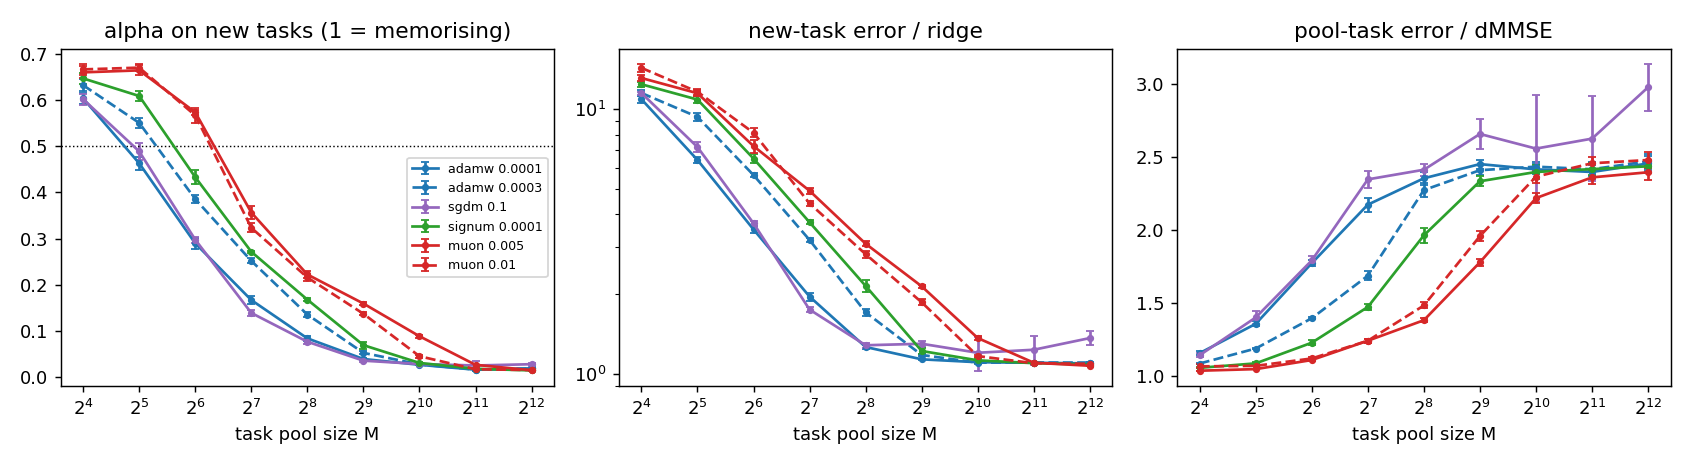
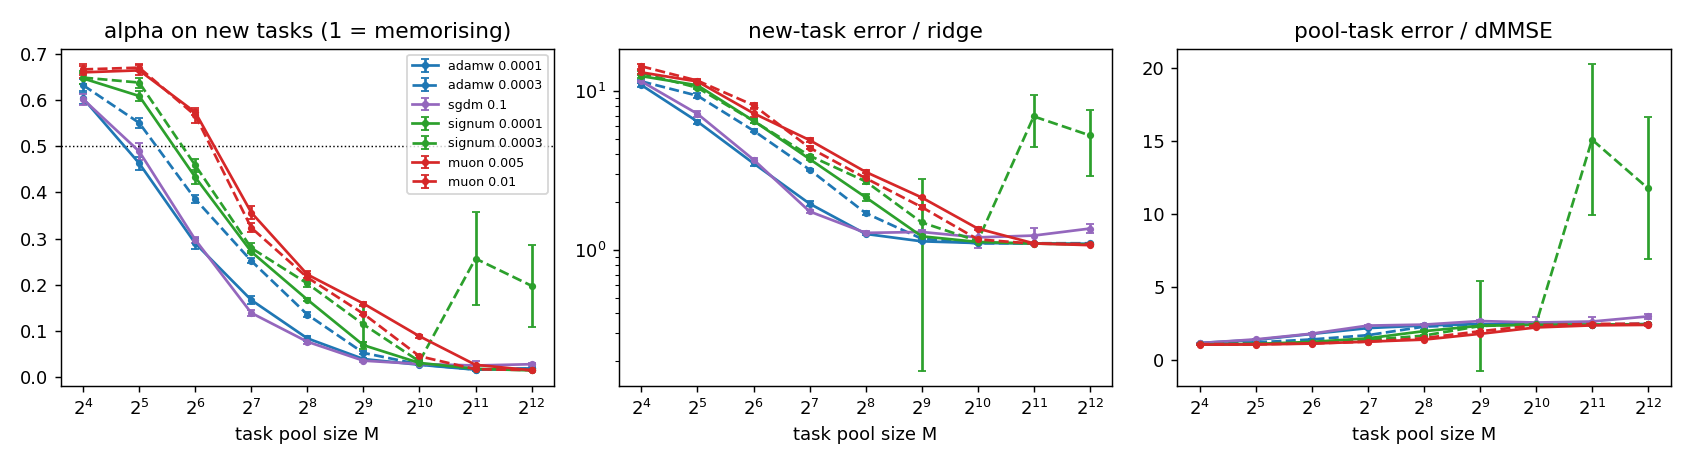
Run 4b: Signum threshold barely moves with LR; Muon stays 0.5-0.7 doublings above

diff --git a/LOG.md b/LOG.md
@@ -20,14 +20,14 @@ How to read the numbers:
 
 | | |
 |---|---|
-| Stage | Run 4b (Signum at a second learning rate, 60 runs) started 2026-11-03 20:10 PT, done around 22:00 PT. Run 3 (10x longer training) should finish tomorrow between about 04:00 and 12:00 PT. |
+| Stage | Runs 4 and 4b are done. Run 3 (10x longer training, 40 runs) should finish tomorrow between about 04:00 and 12:00 PT. |
 | Main finding | **Muon memorises the task pool more and sooner, so it needs 2-3x more distinct tasks than AdamW before in-context learning wins** (6 of 6 seeds, every learning-rate pairing, p = 0.031, the smallest possible with 6 seeds). It also starts ICL 1.3-2.5x sooner. With 2,048 or more tasks the two end up the same. |
-| Why | **Both halves of Muon's update add memorisation** (Run 4). Signum, which equalises step sizes but doesn't orthogonalise, lands between AdamW and Muon. SGD lands on AdamW. The orthogonalisation step alone moves the threshold about 0.7 doublings, at every learning rate tried. |
+| Why | **Both halves of Muon's update add memorisation** (Runs 4 and 4b). Signum, which equalises step sizes but doesn't orthogonalise, lands between AdamW and Muon at both learning rates tried; SGD lands on AdamW. Orthogonalisation adds 0.5-0.7 doublings on top of Signum (6 of 6 seeds in every pairing). Like Muon's, and unlike AdamW's, Signum's threshold barely moves with learning rate. |
 | Open question | Is Muon just AdamW on a faster clock? Early evidence says no; Run 3 tests it directly. |
 
 ---
 
-## Run 4b: Signum at a second learning rate (started 2026-11-03 20:10 PT)
+## Run 4b: Signum at a second learning rate (2026-11-03, 20:10-22:05 PT)
 
 **What:** 60 runs: Signum at 3e-4, every pool size, seeds 0-5, paired with everything above.
 
@@ -39,7 +39,36 @@ more of it.
 **What the results will look like:** one more row in the Run 4 threshold table and paired
 tests against AdamW 3e-4 and Muon.
 
-**Result:** pending.
+**Result:** Signum's threshold hardly moves with learning rate, and Muon stays clearly above it.
+All 60 runs finished.
+
+| Optimizer | Threshold at the lower / higher learning rate |
+|---|---|
+| AdamW (1e-4 / 3e-4) | 28 / 41 tasks |
+| Signum (1e-4 / 3e-4) | 50 / 54 tasks |
+| Muon (0.005 / 0.01) | 80 / 77 tasks |
+
+Paired tests with Signum at 3e-4 (6 of 6 seeds agree and p = 0.031 in every row):
+
+| Comparison | Threshold moves by |
+|---|---|
+| Signum 3e-4 vs AdamW 3e-4 | +0.41 doublings |
+| Muon 0.005 vs Signum 3e-4 | +0.58 doublings |
+| Muon 0.01 vs Signum 3e-4 | +0.52 doublings |
+
+What this says:
+- **Orthogonalisation raises the threshold on its own, whichever learning rate Signum uses.**
+  Across all four Signum/Muon pairings, Muon is 0.5-0.7 doublings (1.4-1.6x more tasks) above
+  Signum.
+- **Equal step sizes also raise it**, by 0.4 doublings at a matched learning rate (3e-4 for both).
+- **AdamW is the odd one out.** For both optimizers that give equal-size steps (Signum and Muon),
+  the learning rate barely changes the threshold. For AdamW it changes it by 0.56 doublings.
+- **Caveat:** 3e-4 is the most Signum can take. With 2,048 or more tasks, and in one of six seeds
+  at 512, it trained and then blew up. Its threshold (near 54 tasks) comes from smaller pools,
+  where it trained normally. So Signum can't be pushed to a higher learning rate to close the
+  gap with Muon.
+
+Figure (now with Signum 3e-4 as the dashed green line): `reports/figs/run04/vs_pool_size_all.png`.
 
 ---
 
@@ -88,8 +117,8 @@ What this says:
   equalises them across the matrix's directions instead of its entries, and that alone raises the
   threshold by about 0.7 doublings (1.6x more tasks) at both Muon learning rates.
 - **Equal step sizes add some memorisation too, but how much depends on AdamW's learning
-  rate**: 0.84 doublings against AdamW 1e-4, only 0.29 against 3e-4. Run 4b runs Signum at
-  3e-4 to see whether Signum's threshold also moves with its learning rate.
+  rate**: 0.84 doublings against AdamW 1e-4, only 0.29 against 3e-4. Run 4b settles this:
+  at a matched learning rate (3e-4) the gap is 0.41 doublings.
 - **How Adam scales steps doesn't matter here.** Plain SGD with momentum behaves like AdamW
   1e-4 wherever it trains well. (SGD is weaker with 1,024 or more tasks, 1.2-1.4x ridge
   against AdamW's 1.1x, and one SGD seed trained badly with an infinite pool. Neither affects

diff --git a/reports/run04_compare.md b/reports/run04_compare.md
@@ -4,20 +4,21 @@
 | adamw 0.0003 | 41 | 5.43 5.25 5.35 5.56 5.25 5.25 |
 | sgdm 0.1 | 30 | 5.24 4.63 5.11 5.06 4.72 4.60 |
 | signum 0.0001 | 50 | 5.59 5.40 5.67 5.95 5.55 5.63 |
+| signum 0.0003 | 54 | 5.64 5.55 5.76 6.04 5.74 5.78 |
 | muon 0.005 | 80 | 6.30 6.26 6.33 6.39 6.39 6.30 |
 | muon 0.01 | 77 | 6.26 6.21 6.27 6.44 6.06 6.39 |
 
 Error on new tasks vs ridge / error on pool tasks vs dMMSE (seed mean; median in brackets when it differs by >10%)
 
-| M | adamw 0.0001 | adamw 0.0003 | sgdm 0.1 | signum 0.0001 | muon 0.005 | muon 0.01 |
-|---|---|---|---|---|---|---|
-| 16 | 10.96x / 1.16x | 11.88x / 1.08x | 11.49x / 1.15x | 12.65x / 1.06x | 13.28x / 1.04x | 14.79x / 1.08x |
-| 32 | 6.48x / 1.37x | 9.20x / 1.19x | 7.11x / 1.42x | 10.45x / 1.09x | 11.48x / 1.05x | 11.70x / 1.07x |
-| 64 | 3.57x / 1.78x | 5.61x / 1.39x | 3.67x / 1.76x | 6.47x / 1.24x | 7.54x / 1.11x | 8.34x / 1.12x |
-| 128 | 1.93x / 2.19x | 3.19x / 1.71x | 1.74x / 2.37x | 3.66x / 1.47x | 4.94x / 1.24x | 4.41x / 1.24x |
-| 256 | 1.28x / 2.41x | 1.66x / 2.23x | 1.27x / 2.44x | 2.13x / 1.95x | 3.10x / 1.39x | 2.88x / 1.47x |
-| 512 | 1.14x / 2.43x | 1.17x / 2.42x | 1.29x / 2.72x | 1.26x / 2.36x | 2.14x / 1.78x | 1.88x / 1.97x |
-| 1024 | 1.10x / 2.41x | 1.10x / 2.42x | 1.37x [1.20] / 2.92x | 1.14x / 2.43x | 1.35x / 2.20x | 1.16x / 2.38x |
-| 2048 | 1.09x / 2.41x | 1.10x / 2.40x | 1.37x [1.23] / 2.92x | 1.09x / 2.41x | 1.10x / 2.35x | 1.10x / 2.41x |
-| 4096 | 1.09x / 2.42x | 1.10x / 2.43x | 1.36x / 3.00x | 1.08x / 2.40x | 1.07x / 2.37x | 1.09x / 2.42x |
-| inf | 1.08x / 1.10x | 1.10x / 1.10x | 2.77x [1.39] / 2.93x | 1.08x / 1.09x | 1.07x / 1.08x | 1.09x / 1.09x |
+| M | adamw 0.0001 | adamw 0.0003 | sgdm 0.1 | signum 0.0001 | signum 0.0003 | muon 0.005 | muon 0.01 |
+|---|---|---|---|---|---|---|---|
+| 16 | 10.96x / 1.16x | 11.88x / 1.08x | 11.49x / 1.15x | 12.65x / 1.06x | 13.25x / 1.05x | 13.28x / 1.04x | 14.79x / 1.08x |
+| 32 | 6.48x / 1.37x | 9.20x / 1.19x | 7.11x / 1.42x | 10.45x / 1.09x | 10.53x / 1.09x | 11.48x / 1.05x | 11.70x / 1.07x |
+| 64 | 3.57x / 1.78x | 5.61x / 1.39x | 3.67x / 1.76x | 6.47x / 1.24x | 6.43x / 1.13x | 7.54x / 1.11x | 8.34x / 1.12x |
+| 128 | 1.93x / 2.19x | 3.19x / 1.71x | 1.74x / 2.37x | 3.66x / 1.47x | 3.95x / 1.36x | 4.94x / 1.24x | 4.41x / 1.24x |
+| 256 | 1.28x / 2.41x | 1.66x / 2.23x | 1.27x / 2.44x | 2.13x / 1.95x | 2.65x / 1.66x | 3.10x / 1.39x | 2.88x / 1.47x |
+| 512 | 1.14x / 2.43x | 1.17x / 2.42x | 1.29x / 2.72x | 1.26x / 2.36x | 3.63x [1.49] / 7.44x | 2.14x / 1.78x | 1.88x / 1.97x |
+| 1024 | 1.10x / 2.41x | 1.10x / 2.42x | 1.37x [1.20] / 2.92x | 1.14x / 2.43x | 1.17x / 2.48x | 1.35x / 2.20x | 1.16x / 2.38x |
+| 2048 | 1.09x / 2.41x | 1.10x / 2.40x | 1.37x [1.23] / 2.92x | 1.09x / 2.41x | 7.13x / 15.12x | 1.10x / 2.35x | 1.10x / 2.41x |
+| 4096 | 1.09x / 2.42x | 1.10x / 2.43x | 1.36x / 3.00x | 1.08x / 2.40x | 6.71x [5.25] / 14.22x | 1.07x / 2.37x | 1.09x / 2.42x |
+| inf | 1.08x / 1.10x | 1.10x / 1.10x | 2.77x [1.39] / 2.93x | 1.08x / 1.09x | 7.51x / 7.47x | 1.07x / 1.08x | 1.09x / 1.09x |

diff --git a/reports/figs/run04/adamw_signumlr_a1e4lr_b3e4/stats.md b/reports/figs/run04/adamw_signumlr_a1e4lr_b3e4/stats.md
@@ -1,0 +1,45 @@
+| endpoint (b minus a) | pairs | mean diff | 95% CI | p (sign-flip) |
+|---|---|---|---|---|
+| log2 M* (task-diversity threshold) | 6 | +0.964 | [+0.804, +1.102] | 0.031 |
+| M=16: log2 onset-step ratio | 1 | -1.255 | [+nan, +nan] | 1.000 |
+| M=16: mse_ood_last | 6 | +1.253 | [+1.028, +1.462] | 0.031 |
+| M=16: mse_id_last | 6 | -0.026 | [-0.032, -0.021] | 0.031 |
+| M=16: alpha_ood | 6 | +0.048 | [+0.045, +0.052] | 0.031 |
+| M=32: log2 onset-step ratio | 6 | -0.419 | [-0.609, -0.196] | 0.062 |
+| M=32: mse_ood_last | 6 | +2.216 | [+1.946, +2.461] | 0.031 |
+| M=32: mse_id_last | 6 | -0.070 | [-0.077, -0.063] | 0.031 |
+| M=32: alpha_ood | 6 | +0.164 | [+0.151, +0.174] | 0.031 |
+| M=64: log2 onset-step ratio | 6 | -0.130 | [-0.294, +0.033] | 0.375 |
+| M=64: mse_ood_last | 6 | +1.563 | [+1.448, +1.661] | 0.031 |
+| M=64: mse_id_last | 6 | -0.162 | [-0.171, -0.155] | 0.031 |
+| M=64: alpha_ood | 6 | +0.157 | [+0.142, +0.175] | 0.031 |
+| M=128: log2 onset-step ratio | 6 | -0.163 | [-0.294, -0.032] | 0.250 |
+| M=128: mse_ood_last | 6 | +1.110 | [+0.983, +1.238] | 0.031 |
+| M=128: mse_id_last | 6 | -0.208 | [-0.227, -0.186] | 0.031 |
+| M=128: alpha_ood | 6 | +0.108 | [+0.087, +0.128] | 0.031 |
+| M=256: log2 onset-step ratio | 6 | +0.033 | [-0.065, +0.131] | 0.500 |
+| M=256: mse_ood_last | 6 | +0.754 | [+0.653, +0.852] | 0.031 |
+| M=256: mse_id_last | 6 | -0.189 | [-0.206, -0.172] | 0.031 |
+| M=256: alpha_ood | 6 | +0.123 | [+0.111, +0.135] | 0.031 |
+| M=512: log2 onset-step ratio | 6 | +0.309 | [+0.071, +0.505] | 0.094 |
+| M=512: mse_ood_last | 6 | +1.380 | [+0.146, +2.854] | 0.031 |
+| M=512: mse_id_last | 6 | +1.274 | [-0.056, +2.866] | 0.500 |
+| M=512: alpha_ood | 6 | +0.129 | [+0.061, +0.208] | 0.031 |
+| M=1024: log2 onset-step ratio | 6 | +0.136 | [-0.093, +0.365] | 0.375 |
+| M=1024: mse_ood_last | 6 | +0.038 | [+0.011, +0.073] | 0.062 |
+| M=1024: mse_id_last | 6 | +0.017 | [-0.006, +0.043] | 0.375 |
+| M=1024: alpha_ood | 6 | +0.008 | [+0.002, +0.015] | 0.062 |
+| M=2048: log2 onset-step ratio | 6 | +0.390 | [+0.164, +0.614] | 0.062 |
+| M=2048: mse_ood_last | 6 | +3.353 | [+1.070, +5.702] | 0.125 |
+| M=2048: mse_id_last | 6 | +3.232 | [+1.066, +5.409] | 0.156 |
+| M=2048: alpha_ood | 6 | +0.249 | [+0.082, +0.419] | 0.062 |
+| M=4096: log2 onset-step ratio | 6 | +0.295 | [+0.066, +0.491] | 0.062 |
+| M=4096: mse_ood_last | 6 | +3.004 | [+0.780, +5.497] | 0.031 |
+| M=4096: mse_id_last | 6 | +2.963 | [+0.810, +5.361] | 0.031 |
+| M=4096: alpha_ood | 6 | +0.225 | [+0.064, +0.401] | 0.031 |
+| M=inf: log2 onset-step ratio | 6 | +0.532 | [+0.458, +0.607] | 0.031 |
+| M=inf: mse_ood_last | 6 | +3.480 | [+1.091, +6.072] | 0.125 |
+| M=inf: mse_id_last | 6 | +3.456 | [+1.075, +6.010] | 0.125 |
+| M=inf: alpha_ood | 0 | +nan | [+nan, +nan] | nan |
+
+per-seed log2 M*: adamw: 5.04 4.59 4.85 5.05 4.53 4.69, signum: 5.64 5.55 5.76 6.04 5.74 5.78

diff --git a/reports/figs/run04/signum_muonlr_a3e4lr_b0.005/stats.md b/reports/figs/run04/signum_muonlr_a3e4lr_b0.005/stats.md
@@ -1,0 +1,45 @@
+| endpoint (b minus a) | pairs | mean diff | 95% CI | p (sign-flip) |
+|---|---|---|---|---|
+| log2 M* (task-diversity threshold) | 6 | +0.576 | [+0.475, +0.659] | 0.031 |
+| M=16: log2 onset-step ratio | 1 | -0.784 | [+nan, +nan] | 1.000 |
+| M=16: mse_ood_last | 6 | +0.011 | [-0.170, +0.223] | 0.969 |
+| M=16: mse_id_last | 6 | -0.005 | [-0.005, -0.004] | 0.031 |
+| M=16: alpha_ood | 6 | +0.010 | [+0.003, +0.017] | 0.094 |
+| M=32: log2 onset-step ratio | 6 | -0.757 | [-0.882, -0.606] | 0.031 |
+| M=32: mse_ood_last | 6 | +0.517 | [+0.324, +0.709] | 0.031 |
+| M=32: mse_id_last | 6 | -0.010 | [-0.011, -0.008] | 0.031 |
+| M=32: alpha_ood | 6 | +0.026 | [+0.025, +0.027] | 0.031 |
+| M=64: log2 onset-step ratio | 6 | -0.817 | [-0.948, -0.687] | 0.031 |
+| M=64: mse_ood_last | 6 | +0.597 | [+0.267, +0.964] | 0.031 |
+| M=64: mse_id_last | 6 | -0.006 | [-0.013, -0.001] | 0.156 |
+| M=64: alpha_ood | 6 | +0.121 | [+0.095, +0.148] | 0.031 |
+| M=128: log2 onset-step ratio | 6 | -0.752 | [-0.850, -0.654] | 0.031 |
+| M=128: mse_ood_last | 6 | +0.540 | [+0.402, +0.685] | 0.031 |
+| M=128: mse_id_last | 6 | -0.031 | [-0.048, -0.016] | 0.031 |
+| M=128: alpha_ood | 6 | +0.069 | [+0.055, +0.083] | 0.031 |
+| M=256: log2 onset-step ratio | 6 | -0.948 | [-0.980, -0.882] | 0.031 |
+| M=256: mse_ood_last | 6 | +0.249 | [+0.152, +0.338] | 0.031 |
+| M=256: mse_id_last | 6 | -0.067 | [-0.088, -0.047] | 0.031 |
+| M=256: alpha_ood | 6 | +0.019 | [+0.012, +0.026] | 0.031 |
+| M=512: log2 onset-step ratio | 6 | -1.126 | [-1.302, -0.953] | 0.031 |
+| M=512: mse_ood_last | 6 | -0.830 | [-2.312, +0.404] | 0.500 |
+| M=512: mse_id_last | 6 | -1.439 | [-3.014, -0.113] | 0.031 |
+| M=512: alpha_ood | 6 | -0.011 | [-0.097, +0.061] | 0.844 |
+| M=1024: log2 onset-step ratio | 6 | -1.051 | [-1.215, -0.888] | 0.031 |
+| M=1024: mse_ood_last | 6 | +0.095 | [+0.072, +0.117] | 0.031 |
+| M=1024: mse_id_last | 6 | -0.071 | [-0.099, -0.045] | 0.031 |
+| M=1024: alpha_ood | 6 | +0.054 | [+0.046, +0.063] | 0.031 |
+| M=2048: log2 onset-step ratio | 6 | -1.239 | [-1.496, -1.046] | 0.031 |
+| M=2048: mse_ood_last | 6 | -3.351 | [-5.695, -1.074] | 0.031 |
+| M=2048: mse_id_last | 6 | -3.246 | [-5.416, -1.087] | 0.031 |
+| M=2048: alpha_ood | 6 | -0.240 | [-0.411, -0.073] | 0.250 |
+| M=4096: log2 onset-step ratio | 6 | -1.209 | [-1.373, -0.948] | 0.031 |
+| M=4096: mse_ood_last | 6 | -3.015 | [-5.512, -0.789] | 0.031 |
+| M=4096: mse_id_last | 6 | -2.978 | [-5.378, -0.823] | 0.031 |
+| M=4096: alpha_ood | 6 | -0.229 | [-0.404, -0.068] | 0.031 |
+| M=inf: log2 onset-step ratio | 6 | -1.382 | [-1.400, -1.373] | 0.031 |
+| M=inf: mse_ood_last | 6 | -3.486 | [-6.081, -1.095] | 0.062 |
+| M=inf: mse_id_last | 6 | -3.467 | [-6.025, -1.086] | 0.031 |
+| M=inf: alpha_ood | 0 | +nan | [+nan, +nan] | nan |
+
+per-seed log2 M*: signum: 5.64 5.55 5.76 6.04 5.74 5.78, muon: 6.30 6.26 6.33 6.39 6.39 6.30

diff --git a/reports/figs/run04/signum_muonlr_a3e4lr_b0.01/stats.md b/reports/figs/run04/signum_muonlr_a3e4lr_b0.01/stats.md
@@ -1,0 +1,45 @@
+| endpoint (b minus a) | pairs | mean diff | 95% CI | p (sign-flip) |
+|---|---|---|---|---|
+| log2 M* (task-diversity threshold) | 6 | +0.519 | [+0.414, +0.611] | 0.031 |
+| M=16: log2 onset-step ratio | 1 | -1.174 | [+nan, +nan] | 1.000 |
+| M=16: mse_ood_last | 6 | +0.839 | [+0.630, +1.091] | 0.031 |
+| M=16: mse_id_last | 6 | +0.005 | [+0.001, +0.013] | 0.031 |
+| M=16: alpha_ood | 6 | +0.019 | [+0.013, +0.027] | 0.031 |
+| M=32: log2 onset-step ratio | 6 | -1.050 | [-1.143, -0.932] | 0.031 |
+| M=32: mse_ood_last | 6 | +0.639 | [+0.469, +0.803] | 0.031 |
+| M=32: mse_id_last | 6 | -0.004 | [-0.006, -0.003] | 0.031 |
+| M=32: alpha_ood | 6 | +0.035 | [+0.027, +0.046] | 0.031 |
+| M=64: log2 onset-step ratio | 6 | -1.176 | [-1.307, -1.044] | 0.031 |
+| M=64: mse_ood_last | 6 | +1.058 | [+0.704, +1.410] | 0.031 |
+| M=64: mse_id_last | 6 | -0.003 | [-0.008, +0.003] | 0.469 |
+| M=64: alpha_ood | 6 | +0.122 | [+0.087, +0.145] | 0.031 |
+| M=128: log2 onset-step ratio | 6 | -1.077 | [-1.208, -0.979] | 0.031 |
+| M=128: mse_ood_last | 6 | +0.251 | [+0.120, +0.377] | 0.062 |
+| M=128: mse_id_last | 6 | -0.031 | [-0.054, -0.010] | 0.031 |
+| M=128: alpha_ood | 6 | +0.037 | [+0.017, +0.057] | 0.031 |
+| M=256: log2 onset-step ratio | 6 | -1.273 | [-1.339, -1.207] | 0.031 |
+| M=256: mse_ood_last | 6 | +0.128 | [+0.025, +0.210] | 0.094 |
+| M=256: mse_id_last | 6 | -0.047 | [-0.069, -0.026] | 0.031 |
+| M=256: alpha_ood | 6 | +0.008 | [-0.001, +0.016] | 0.188 |
+| M=512: log2 onset-step ratio | 6 | -1.418 | [-1.609, -1.245] | 0.031 |
+| M=512: mse_ood_last | 6 | -0.972 | [-2.467, +0.278] | 0.500 |
+| M=512: mse_id_last | 6 | -1.391 | [-2.975, -0.061] | 0.031 |
+| M=512: alpha_ood | 6 | -0.031 | [-0.117, +0.041] | 0.562 |
+| M=1024: log2 onset-step ratio | 6 | -1.278 | [-1.469, -1.081] | 0.031 |
+| M=1024: mse_ood_last | 6 | -0.009 | [-0.048, +0.019] | 0.875 |
+| M=1024: mse_id_last | 6 | -0.025 | [-0.041, -0.009] | 0.062 |
+| M=1024: alpha_ood | 6 | +0.010 | [+0.002, +0.019] | 0.125 |
+| M=2048: log2 onset-step ratio | 6 | -1.499 | [-1.726, -1.272] | 0.031 |
+| M=2048: mse_ood_last | 6 | -3.351 | [-5.700, -1.069] | 0.125 |
+| M=2048: mse_id_last | 6 | -3.232 | [-5.405, -1.068] | 0.156 |
+| M=2048: alpha_ood | 6 | -0.249 | [-0.421, -0.080] | 0.125 |
+| M=4096: log2 onset-step ratio | 6 | -1.469 | [-1.665, -1.175] | 0.031 |
+| M=4096: mse_ood_last | 6 | -3.004 | [-5.497, -0.777] | 0.031 |
+| M=4096: mse_id_last | 6 | -2.965 | [-5.358, -0.810] | 0.031 |
+| M=4096: alpha_ood | 6 | -0.228 | [-0.402, -0.068] | 0.031 |
+| M=inf: log2 onset-step ratio | 6 | -1.675 | [-1.759, -1.599] | 0.031 |
+| M=inf: mse_ood_last | 6 | -3.476 | [-6.066, -1.088] | 0.125 |
+| M=inf: mse_id_last | 6 | -3.458 | [-6.011, -1.076] | 0.094 |
+| M=inf: alpha_ood | 0 | +nan | [+nan, +nan] | nan |
+
+per-seed log2 M*: signum: 5.64 5.55 5.76 6.04 5.74 5.78, muon: 6.26 6.21 6.27 6.44 6.06 6.39

diff --git a/reports/figs/run04/adamw_signumlr_a3e4lr_b3e4/stats.md b/reports/figs/run04/adamw_signumlr_a3e4lr_b3e4/stats.md
@@ -1,0 +1,45 @@
+| endpoint (b minus a) | pairs | mean diff | 95% CI | p (sign-flip) |
+|---|---|---|---|---|
+| log2 M* (task-diversity threshold) | 6 | +0.406 | [+0.307, +0.492] | 0.031 |
+| M=16: log2 onset-step ratio | 0 | +nan | [+nan, +nan] | nan |
+| M=16: mse_ood_last | 6 | +0.745 | [+0.540, +0.949] | 0.031 |
+| M=16: mse_id_last | 6 | -0.007 | [-0.009, -0.004] | 0.031 |
+| M=16: alpha_ood | 6 | +0.018 | [+0.012, +0.022] | 0.031 |
+| M=32: log2 onset-step ratio | 6 | -0.092 | [-0.309, +0.098] | 0.500 |
+| M=32: mse_ood_last | 6 | +0.730 | [+0.426, +1.040] | 0.031 |
+| M=32: mse_id_last | 6 | -0.025 | [-0.028, -0.023] | 0.031 |
+| M=32: alpha_ood | 6 | +0.068 | [+0.055, +0.082] | 0.031 |
+| M=64: log2 onset-step ratio | 6 | +0.320 | [+0.163, +0.456] | 0.062 |
+| M=64: mse_ood_last | 6 | +0.441 | [+0.284, +0.583] | 0.031 |
+| M=64: mse_id_last | 6 | -0.064 | [-0.070, -0.058] | 0.031 |
+| M=64: alpha_ood | 6 | +0.066 | [+0.055, +0.079] | 0.031 |
+| M=128: log2 onset-step ratio | 6 | +0.293 | [+0.098, +0.489] | 0.125 |
+| M=128: mse_ood_last | 6 | +0.421 | [+0.303, +0.551] | 0.031 |
+| M=128: mse_id_last | 6 | -0.088 | [-0.107, -0.071] | 0.031 |
+| M=128: alpha_ood | 6 | +0.026 | [+0.007, +0.045] | 0.094 |
+| M=256: log2 onset-step ratio | 6 | +0.522 | [+0.359, +0.653] | 0.031 |
+| M=256: mse_ood_last | 6 | +0.541 | [+0.485, +0.597] | 0.031 |
+| M=256: mse_id_last | 6 | -0.144 | [-0.155, -0.130] | 0.031 |
+| M=256: alpha_ood | 6 | +0.073 | [+0.057, +0.085] | 0.031 |
+| M=512: log2 onset-step ratio | 6 | +0.721 | [+0.546, +0.867] | 0.031 |
+| M=512: mse_ood_last | 6 | +1.358 | [+0.123, +2.841] | 0.031 |
+| M=512: mse_id_last | 6 | +1.278 | [-0.049, +2.865] | 0.500 |
+| M=512: alpha_ood | 6 | +0.116 | [+0.046, +0.201] | 0.031 |
+| M=1024: log2 onset-step ratio | 6 | +0.581 | [+0.390, +0.778] | 0.031 |
+| M=1024: mse_ood_last | 6 | +0.039 | [+0.016, +0.069] | 0.031 |
+| M=1024: mse_id_last | 6 | +0.015 | [-0.004, +0.038] | 0.312 |
+| M=1024: alpha_ood | 6 | +0.007 | [+0.001, +0.012] | 0.125 |
+| M=2048: log2 onset-step ratio | 6 | +0.683 | [+0.457, +0.937] | 0.031 |
+| M=2048: mse_ood_last | 6 | +3.351 | [+1.071, +5.698] | 0.062 |
+| M=2048: mse_id_last | 6 | +3.234 | [+1.072, +5.408] | 0.062 |
+| M=2048: alpha_ood | 6 | +0.249 | [+0.084, +0.416] | 0.031 |
+| M=4096: log2 onset-step ratio | 6 | +0.685 | [+0.457, +0.849] | 0.031 |
+| M=4096: mse_ood_last | 6 | +3.002 | [+0.777, +5.492] | 0.062 |
+| M=4096: mse_id_last | 6 | +2.963 | [+0.809, +5.359] | 0.031 |
+| M=4096: alpha_ood | 6 | +0.226 | [+0.065, +0.402] | 0.031 |
+| M=inf: log2 onset-step ratio | 6 | +0.891 | [+0.751, +0.997] | 0.031 |
+| M=inf: mse_ood_last | 6 | +3.471 | [+1.083, +6.065] | 0.125 |
+| M=inf: mse_id_last | 6 | +3.453 | [+1.076, +6.007] | 0.062 |
+| M=inf: alpha_ood | 0 | +nan | [+nan, +nan] | nan |
+
+per-seed log2 M*: adamw: 5.43 5.25 5.35 5.56 5.25 5.25, signum: 5.64 5.55 5.76 6.04 5.74 5.78
